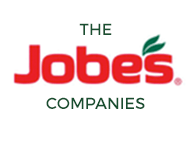
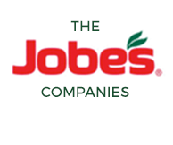
header

diff --git a/wp-content/themes/jobes/style.css b/wp-content/themes/jobes/style.css
@@ -361,10 +361,10 @@ filter: progid:DXImageTransform.Microsoft.gradient( startColorstr='#ffffff', end
 /* ================================ Header ================================ */
 
 #header { position:relative; padding: 0; background: rgba(255,255,255,1); margin: 0 auto;}
-#header .shell {padding: 45px 0;}
-#logo { margin:0  0 0; padding: 0; width:194px; height:163px; cursor:pointer; position: absolute; left: -96px;top: 0  }
-#logo a { margin: 0 0 0 0; padding: 0; position:relative; width:194px; height:163px;  overflow:hidden; text-indent:-10000px; display:block; cursor:pointer; text-align: left }
-#logo a span { display:block; position:absolute; left:0; top:0; z-index:1; width:194px; height:163px; margin:0; padding:0; background:url(images/jobescompanies.png) top left no-repeat; cursor:pointer; }
+#header .shell {padding: 40px 0;}
+#logo { margin:0  0 0; padding: 0; width:173px; height:145px; cursor:pointer; position: absolute; left: -86px;top: 0  }
+#logo a { margin: 0 0 0 0; padding: 0; position:relative; width:173px; height:145px;  overflow:hidden; text-indent:-10000px; display:block; cursor:pointer; text-align: left }
+#logo a span { display:block; position:absolute; left:0; top:0; z-index:1;width:173px; height:145px; margin:0; padding:0; background:url(images/jobescompanies.png) top left no-repeat; cursor:pointer; }
 
 #header .nav { position: relative; margin: 8px 0 0 145px; float: left;}
 #header .nav ul { list-style-type:none; margin: 0; padding: 0; text-align: left; }	
@@ -372,7 +372,7 @@ filter: progid:DXImageTransform.Microsoft.gradient( startColorstr='#ffffff', end
 #header .nav ul li a { text-transform:uppercase; color: #205131; font-size:14px; padding:3px; }
 #header .nav ul li ul {display: none;}
 #header .nav ul li:hover ul {display: block; position: absolute; top: 40px; width: 225px;}
-#header .nav ul li:hover ul:before {background: url(images/arrow-down.png) no-repeat center; width: 22px; height: 20px; display: block; content: '';}
+#header .nav ul li:hover ul:before {background: url(images/arrow-down.png) no-repeat center; width: 22px; height: 20px; display: block; content: ''; position: absolute; top: -25px;}
 #header .nav ul li a:hover, #header nav ul li.current_page_item a { text-decoration:none; color: #e5083b; }
 #header .search {float: right;}
 /* ================================ Footer ================================ */
